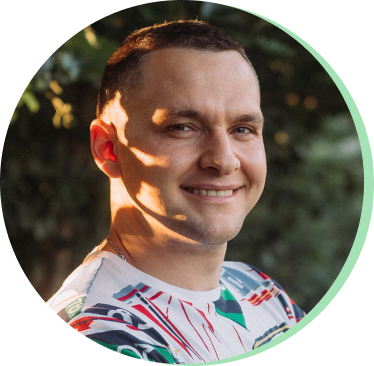
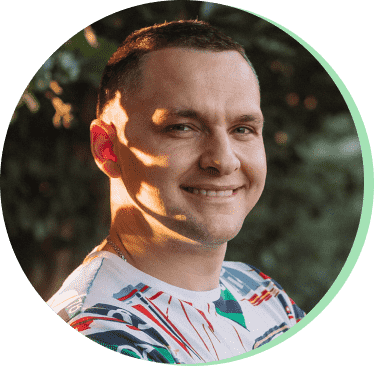
Compress image and changed text

diff --git a/index.html b/index.html
@@ -3,6 +3,9 @@
 <head>
     <meta charset="UTF-8">
     <meta name="viewport" content="width=device-width, initial-scale=1.0">
+    <link rel="preload" href="fonts/Montserrat-SemiBold.woff" as="font" type="font/woff" crossorigin="anonymous">
+    <link rel="preload" href="fonts/Montserrat-Bold.ttf" as="font" type="font/ttf" crossorigin="anonymous">
+    <link rel="preload" href="fonts/Montserrat-ExtraBold.woff" as="font" type="font/woff" crossorigin="anonymous">
     <!-- <link rel="preconnect" href="https://fonts.googleapis.com">
     <link rel="preconnect" href="https://fonts.gstatic.com" crossorigin>
     <link href="https://fonts.googleapis.com/css2?family=Montserrat:wght@600;700;800&display=swap" rel="stylesheet">  -->
@@ -166,16 +169,16 @@
             <div class="program__inner">
                 <div class="program__inner--item">
                     <p class="text text--bold program__inner--item__title">Прошлое – расчищаем завалы</p>
-                    <p class="text">Как снять внутренние ограничения и семейные сценарии, мешающие быть счастливыми. Как переосмыслить негативный опыт, который заставляет думать, будто вы недостойны лучшей жизни.</p>
+                    <p class="text">Как снять внутренние ограничения и семейные сценарии, мешающие быть счастливыми. Как переосмыслить негативный опыт, который заставляет думать, будто вы недостойны лучшей жизни</p>
                 </div>
                 <div class="program__inner--item">
                     <p class="text text--bold program__inner--item__title">Настоящее – просыпаемся 
                         в «сейчас»</p>
-                    <p class="text">Как наладить контакт с собой и окружающими, найти связь с реальностью, как начать жить здесь и сейчас и наслаждаться моментом и где взять энергию для всего этого.</p>
+                    <p class="text">Как наладить контакт с собой и окружающими, найти связь с реальностью, как начать жить здесь и сейчас и наслаждаться моментом и где взять энергию для всего этого</p>
                 </div>
                 <div class="program__inner--item">
                     <p class="text text--bold program__inner--item__title">Будущее</p>
-                    <p class="text">Как избавиться от страха, поверить в лучшую жизнь, написать новый сценарий своей жизни, поставить собственные цели и построить планы.</p>
+                    <p class="text">Как избавиться от страха, поверить в лучшую жизнь, написать новый сценарий своей жизни, поставить собственные цели и построить планы</p>
                 </div>
             </div>
             <a class="button button--program" href="#buy"><svg><use href="sprite.svg#check"></use></svg>Построить маршрут в&nbsp;новый&nbsp;мир</a>
@@ -237,7 +240,7 @@
             <div class="autor__inner">
                 <div class="autor__inner--item">
                     <p class="text text--autor">За <span class="text--bold">9 лет</span> я создал <span class="text--bold">22 программы,</span> которые прошли <span class="text--bold">500 тысяч женщин</span> из 79 стран.</p>
-                    <p class="text text--autor">Мы прошли вместе, за руку к осознанным отношениям, самоценности, уверенности в себе и высокому доходу.</p>
+                    <p class="text text--autor">Мы прошли вместе, за руку, к осознанным отношениям, самоценности, уверенности в себе и высокому доходу.</p>
                     <p class="text text--autor">Мой практикум - это <span class="text--bold">концентрат 22 программ.</span> Жду вас!</p>
                 </div>
                 <div class="autor__img">
